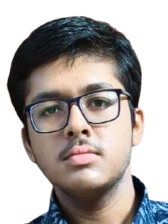
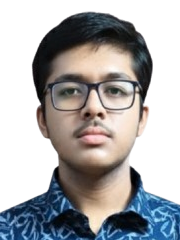
Done

diff --git a/src/components/courses.tsx b/src/components/courses.tsx
@@ -12,17 +12,17 @@ const Courses = () => {
             <CourseCard
               title="ICSE Computer Applications"
               target="For Classes VIII – X"
-              description="Complete programming concepts, Java, logic building and board exam preparation."
+              description="Fundamentals of Programming, with a strong focus on logic building and Java basics."
             />
             <CourseCard
               title="ISC Computer Science"
               target="For Classes XI & XII"
-              description="Java programming, data structures, practicals and board oriented training."
+              description="Concept-based learning, with equal importance to Digital Electronics, Java and Data Structures."
             />
             <CourseCard
               title="CBSE Computer Science"
               target="For Classes XI & XII"
-              description="Python programming, SQL, practical projects and exam focused teaching."
+              description="Structured learning path, curated for the CBSE Examinations, with a strong focus on Python."
             />
           </div>
         </div>

diff --git a/src/components/features.tsx b/src/components/features.tsx
@@ -13,16 +13,16 @@ const Features = () => {
           </div>
           <div className="flex gap-4 md:gap-12 flex-wrap justify-center lg:flex-nowrap">
             <FeatureCard
-              title="Personal Attention"
-              description="Small batch sizes to focus on every student individually."
+              title="Concept-Based Learning"
+              description="We focus on concepts that build strong logical foundations."
             />
             <FeatureCard
-              title="Practical Learning"
-              description="Hands-on coding practice with real exam oriented programs."
+              title="Printed Study Materials"
+              description="Chapterwise study notes are provided for easy understanding."
             />
             <FeatureCard
-              title="Regular Tests"
-              description="Frequent mock tests and feedback for continuous improvement."
+              title="Consistent Practice"
+              description="Regular homeworks are provided to keep students on track."
             />
           </div>
         </div>

diff --git a/src/components/toppers.tsx b/src/components/toppers.tsx
@@ -16,7 +16,7 @@ const Toppers = () => {
               credits2={100}
             />
             <TopperCard
-              link="/syamantak.png"
+              link="/syamantak.jpg"
               title="Syamantak Sengupta"
               board="ICSE 2024"
               credits1={93}
@@ -24,11 +24,11 @@ const Toppers = () => {
               credits2={99}
             />
             <TopperCard
-              link="/ishani.jpg"
+              link="/kaustav.jpg"
               title="Kaustav Rai"
               board="ICSE 2024"
-              credits1={96.8}
-              subject="Computer Science"
+              credits1={89.8}
+              subject="Computer Applications"
               credits2={96}
             />
             <TopperCard
@@ -36,7 +36,7 @@ const Toppers = () => {
               title="Mainak Chaki"
               board="ICSE 2025"
               credits1={94}
-              subject="Computer Science"
+              subject="Computer Applications"
               credits2={99}
             />
           </div>

diff --git a/src/components/topper-card.tsx b/src/components/topper-card.tsx
@@ -10,8 +10,8 @@ const TopperCard = ({
   credits2,
 }: topperCard) => {
   return (
-    <div className="card card-border bg-base-100 shadow-md hover:shadow-lg hover:-translate-y-2 hover:scale-101 transition-all dark:shadow-accent">
-      <figure className="relative w-full h-58 flex justify-center items-center mt-2">
+    <div className="card card-border bg-base-100 shadow-md hover:shadow-lg hover:-translate-y-2 hover:scale-101 transition-all dark:shadow-accent w-66">
+      <figure className="relative w-full h-88 flex justify-center items-center mt-2">
         <Image
           src={link}
           alt="topper_pic"
